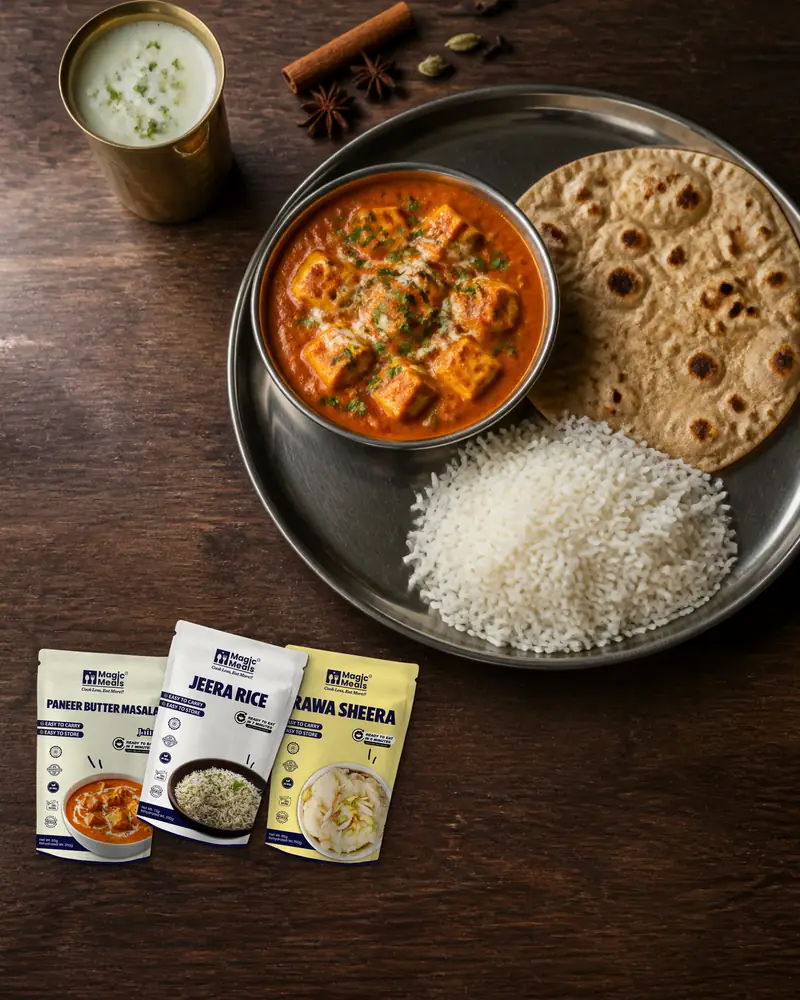
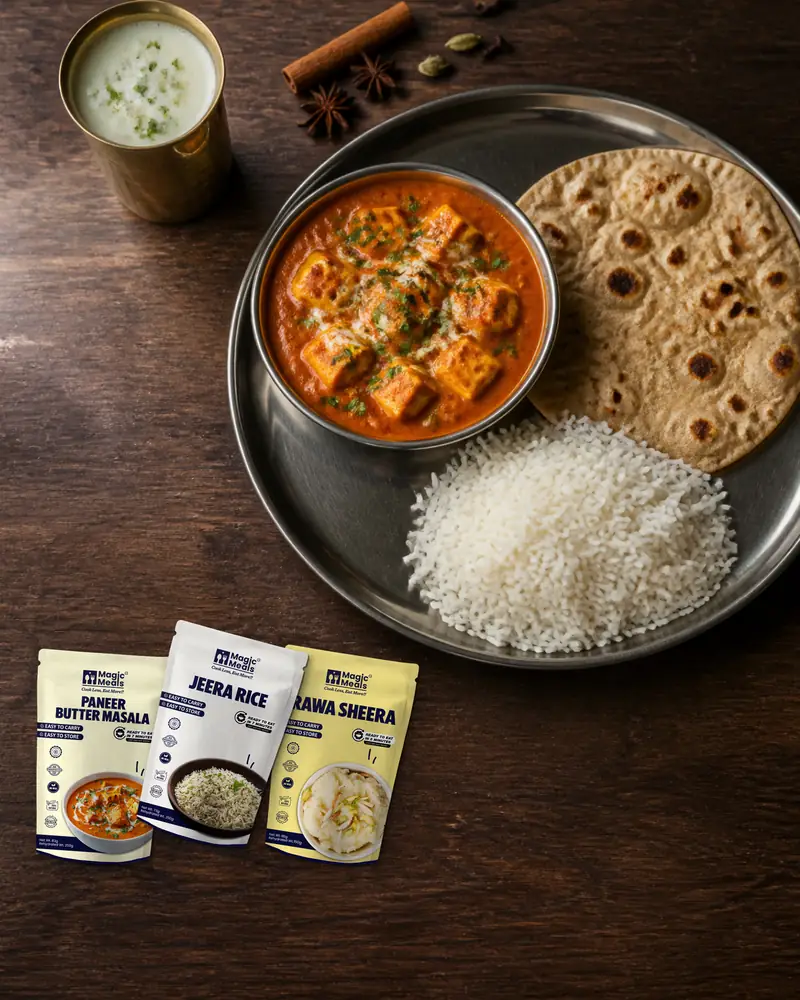
North Indian combo (Paneer Butter Masala + Jeera Rice + Rawa Sheera) uses the regular Paneer Butter Masala pouch, text, calories and ingredients

Changed region(s): [[0.0312, 0.682, 0.1875, 0.868]]

diff --git a/pdp/combos/combo-gallery.js b/pdp/combos/combo-gallery.js
@@ -1,2 +1,2 @@
 /* GENERATED by tools/compose-combo-gallery.py. The combos that have images in pdp/combos/<id>/, and their dishes (pouch-art ids). */
-window.COMBO_PDP = {"classic-dinner-combo-tomato-soup-dal-makhani-jeera-rice": {"dishes": ["tomato-soup", "dal-makhani", "jeera-rice"]}, "comfort-combo-rajma-masala-fried-rice-with-manchurian-gravy-gajar-halwa": {"dishes": ["rajma-masala", "fried-rice-manchurian", "gajar-halwa"]}, "comfort-combo-rajma-masala-jeera-rice-gajar-halwa": {"dishes": ["rajma-masala", "jeera-rice", "gajar-halwa"]}, "comfort-combo-rajma-masala-tawa-pulao-gajar-halwa": {"dishes": ["rajma-masala", "tawa-pulao", "gajar-halwa"]}, "comfort-combo-rajma-masala-veg-biryani-gajar-halwa": {"dishes": ["rajma-masala", "veg-biryani", "gajar-halwa"]}, "comfort-night-combo-dal-fry-jeera-rice": {"dishes": ["dal-fry", "jeera-rice"]}, "dinner-dessert-combo": {"dishes": ["dal-khichdi", "gajar-halwa"]}, "fiesta-bowl-combo": {"dishes": ["sweet-corn-soup", "mexican-rice"]}, "homestyle-combo-veg-makhanwala-jeera-rice-gajar-halwa": {"dishes": ["veg-makhanwala", "jeera-rice", "gajar-halwa"]}, "homestyle-combo-veg-makhanwala-tawa-pulao-gajar-halwa": {"dishes": ["veg-makhanwala", "tawa-pulao", "gajar-halwa"]}, "homestyle-combo-veg-makhanwala-veg-biryani-gajar-halwa": {"dishes": ["veg-makhanwala", "veg-biryani", "gajar-halwa"]}, "indo-chinese-feast-combo": {"dishes": ["hot-and-sour-soup", "fried-rice-manchurian"]}, "jain-biryani-royale-veg-biryani-aam-ras": {"dishes": ["jain-veg-biryani", "aam-ras"]}, "jain-biryani-royale-veg-biryani-rawa-sheera": {"dishes": ["jain-veg-biryani", "rawa-sheera"]}, "jain-classic-dinner-combo-dal-makhani-jeera-rice": {"dishes": ["jain-dal-makhani", "jeera-rice"]}, "jain-comfort-combo-rajma-masala-jeera-rice-rawa-sheera": {"dishes": ["jain-rajma-masala", "jeera-rice", "rawa-sheera"]}, "jain-homestyle-combo-veg-makhanwala-jeera-rice-dal-fry": {"dishes": ["jain-veg-makhanwala", "jeera-rice", "dal-fry"]}, "jain-indo-chinese-combo-schezwan-rice-rawa-sheera": {"dishes": ["jain-schezwan-rice", "rawa-sheera"]}, "jain-light-comfort-combo-dal-khichdi-aam-ras": {"dishes": ["jain-dal-khichdi", "aam-ras"]}, "jain-light-comfort-combo-dal-khichdi-rawa-sheera": {"dishes": ["jain-dal-khichdi", "rawa-sheera"]}, "jain-light-dinner-combo-dal-khichdi-moong-masala": {"dishes": ["jain-dal-khichdi", "moong-masala"]}, "jain-north-indian-combo-paneer-butter-masala-jeera-rice-rawa-sheera": {"dishes": ["jain-paneer-butter-masala", "jeera-rice", "rawa-sheera"]}, "jain-protein-veg-combo-paneer-bhurji-jeera-rice-aam-ras": {"dishes": ["jain-paneer-bhurji", "jeera-rice", "aam-ras"]}, "jain-punjabi-swaad-combo-pind-ke-chole-jeera-rice-dal-fry": {"dishes": ["jain-pind-ke-chhole", "jeera-rice", "dal-fry"]}, "jain-royal-fusion-combo-schezwan-rice-aam-ras": {"dishes": ["jain-schezwan-rice", "aam-ras"]}, "jain-street-style-combo-pav-bhaji-rawa-sheera": {"dishes": ["jain-pav-bhaji", "rawa-sheera"]}, "maharashtrian-nashta-combo": {"dishes": ["kanda-poha", "mumbai-misal"]}, "north-indian-combo-paneer-butter-masala-jeera-rice-rawa-sheera": {"dishes": ["jain-paneer-butter-masala", "jeera-rice", "rawa-sheera"]}, "north-indian-combo-paneer-butter-masala-tawa-pulao-rawa-sheera": {"dishes": ["paneer-butter-masala", "tawa-pulao", "rawa-sheera"]}, "north-indian-combo-paneer-butter-masala-veg-biryani-rawa-sheera": {"dishes": ["paneer-butter-masala", "veg-biryani", "rawa-sheera"]}, "protein-veg-combo-paneer-bhurji-jeera-rice-aam-ras": {"dishes": ["paneer-bhurji", "jeera-rice", "aam-ras"]}, "protein-veg-combo-paneer-bhurji-tawa-pulao-aam-ras": {"dishes": ["paneer-bhurji", "tawa-pulao", "aam-ras"]}, "protein-veg-combo-paneer-bhurji-veg-biryani-aam-ras": {"dishes": ["paneer-bhurji", "veg-biryani", "aam-ras"]}, "punjabi-swaad-combo-pind-ke-chole-jeera-rice-gajar-halwa": {"dishes": ["pind-ke-chhole", "jeera-rice", "gajar-halwa"]}, "punjabi-swaad-pind-ke-chole-tawa-pulao-gajar-halwa": {"dishes": ["pind-ke-chhole", "tawa-pulao", "gajar-halwa"]}, "punjabi-swaad-pind-ke-chole-veg-biryani-gajar-halwa": {"dishes": ["pind-ke-chhole", "veg-biryani", "gajar-halwa"]}, "royal-combo-tawa-pulao-aam-ras": {"dishes": ["tawa-pulao", "aam-ras"]}, "royal-combo-veg-biryani-rawa-sheera": {"dishes": ["veg-biryani", "rawa-sheera"]}, "south-indian-breakfast-combo": {"dishes": ["idli-sambar", "upma"]}, "street-style-combo-pav-bhaji-rawa-sheera": {"dishes": ["pav-bhaji", "rawa-sheera"]}, "street-style-combo-pav-bhaji-tawa-pulao": {"dishes": ["pav-bhaji", "tawa-pulao"]}};
+window.COMBO_PDP = {"classic-dinner-combo-tomato-soup-dal-makhani-jeera-rice": {"dishes": ["tomato-soup", "dal-makhani", "jeera-rice"]}, "comfort-combo-rajma-masala-fried-rice-with-manchurian-gravy-gajar-halwa": {"dishes": ["rajma-masala", "fried-rice-manchurian", "gajar-halwa"]}, "comfort-combo-rajma-masala-jeera-rice-gajar-halwa": {"dishes": ["rajma-masala", "jeera-rice", "gajar-halwa"]}, "comfort-combo-rajma-masala-tawa-pulao-gajar-halwa": {"dishes": ["rajma-masala", "tawa-pulao", "gajar-halwa"]}, "comfort-combo-rajma-masala-veg-biryani-gajar-halwa": {"dishes": ["rajma-masala", "veg-biryani", "gajar-halwa"]}, "comfort-night-combo-dal-fry-jeera-rice": {"dishes": ["dal-fry", "jeera-rice"]}, "dinner-dessert-combo": {"dishes": ["dal-khichdi", "gajar-halwa"]}, "fiesta-bowl-combo": {"dishes": ["sweet-corn-soup", "mexican-rice"]}, "homestyle-combo-veg-makhanwala-jeera-rice-gajar-halwa": {"dishes": ["veg-makhanwala", "jeera-rice", "gajar-halwa"]}, "homestyle-combo-veg-makhanwala-tawa-pulao-gajar-halwa": {"dishes": ["veg-makhanwala", "tawa-pulao", "gajar-halwa"]}, "homestyle-combo-veg-makhanwala-veg-biryani-gajar-halwa": {"dishes": ["veg-makhanwala", "veg-biryani", "gajar-halwa"]}, "indo-chinese-feast-combo": {"dishes": ["hot-and-sour-soup", "fried-rice-manchurian"]}, "jain-biryani-royale-veg-biryani-aam-ras": {"dishes": ["jain-veg-biryani", "aam-ras"]}, "jain-biryani-royale-veg-biryani-rawa-sheera": {"dishes": ["jain-veg-biryani", "rawa-sheera"]}, "jain-classic-dinner-combo-dal-makhani-jeera-rice": {"dishes": ["jain-dal-makhani", "jeera-rice"]}, "jain-comfort-combo-rajma-masala-jeera-rice-rawa-sheera": {"dishes": ["jain-rajma-masala", "jeera-rice", "rawa-sheera"]}, "jain-homestyle-combo-veg-makhanwala-jeera-rice-dal-fry": {"dishes": ["jain-veg-makhanwala", "jeera-rice", "dal-fry"]}, "jain-indo-chinese-combo-schezwan-rice-rawa-sheera": {"dishes": ["jain-schezwan-rice", "rawa-sheera"]}, "jain-light-comfort-combo-dal-khichdi-aam-ras": {"dishes": ["jain-dal-khichdi", "aam-ras"]}, "jain-light-comfort-combo-dal-khichdi-rawa-sheera": {"dishes": ["jain-dal-khichdi", "rawa-sheera"]}, "jain-light-dinner-combo-dal-khichdi-moong-masala": {"dishes": ["jain-dal-khichdi", "moong-masala"]}, "jain-north-indian-combo-paneer-butter-masala-jeera-rice-rawa-sheera": {"dishes": ["jain-paneer-butter-masala", "jeera-rice", "rawa-sheera"]}, "jain-protein-veg-combo-paneer-bhurji-jeera-rice-aam-ras": {"dishes": ["jain-paneer-bhurji", "jeera-rice", "aam-ras"]}, "jain-punjabi-swaad-combo-pind-ke-chole-jeera-rice-dal-fry": {"dishes": ["jain-pind-ke-chhole", "jeera-rice", "dal-fry"]}, "jain-royal-fusion-combo-schezwan-rice-aam-ras": {"dishes": ["jain-schezwan-rice", "aam-ras"]}, "jain-street-style-combo-pav-bhaji-rawa-sheera": {"dishes": ["jain-pav-bhaji", "rawa-sheera"]}, "maharashtrian-nashta-combo": {"dishes": ["kanda-poha", "mumbai-misal"]}, "north-indian-combo-paneer-butter-masala-jeera-rice-rawa-sheera": {"dishes": ["paneer-butter-masala", "jeera-rice", "rawa-sheera"]}, "north-indian-combo-paneer-butter-masala-tawa-pulao-rawa-sheera": {"dishes": ["paneer-butter-masala", "tawa-pulao", "rawa-sheera"]}, "north-indian-combo-paneer-butter-masala-veg-biryani-rawa-sheera": {"dishes": ["paneer-butter-masala", "veg-biryani", "rawa-sheera"]}, "protein-veg-combo-paneer-bhurji-jeera-rice-aam-ras": {"dishes": ["paneer-bhurji", "jeera-rice", "aam-ras"]}, "protein-veg-combo-paneer-bhurji-tawa-pulao-aam-ras": {"dishes": ["paneer-bhurji", "tawa-pulao", "aam-ras"]}, "protein-veg-combo-paneer-bhurji-veg-biryani-aam-ras": {"dishes": ["paneer-bhurji", "veg-biryani", "aam-ras"]}, "punjabi-swaad-combo-pind-ke-chole-jeera-rice-gajar-halwa": {"dishes": ["pind-ke-chhole", "jeera-rice", "gajar-halwa"]}, "punjabi-swaad-pind-ke-chole-tawa-pulao-gajar-halwa": {"dishes": ["pind-ke-chhole", "tawa-pulao", "gajar-halwa"]}, "punjabi-swaad-pind-ke-chole-veg-biryani-gajar-halwa": {"dishes": ["pind-ke-chhole", "veg-biryani", "gajar-halwa"]}, "royal-combo-tawa-pulao-aam-ras": {"dishes": ["tawa-pulao", "aam-ras"]}, "royal-combo-veg-biryani-rawa-sheera": {"dishes": ["veg-biryani", "rawa-sheera"]}, "south-indian-breakfast-combo": {"dishes": ["idli-sambar", "upma"]}, "street-style-combo-pav-bhaji-rawa-sheera": {"dishes": ["pav-bhaji", "rawa-sheera"]}, "street-style-combo-pav-bhaji-tawa-pulao": {"dishes": ["pav-bhaji", "tawa-pulao"]}};

diff --git a/product-descriptions.js b/product-descriptions.js
@@ -882,7 +882,7 @@ window.PRODUCT_DESCRIPTIONS = {
  },
  "north-indian-combo-paneer-butter-masala-jeera-rice-rawa-sheera": {
   "slug": "magic-meals-north-indian-combo-paneer-butter-masala-jeera-rice-rawa-sheera",
-  "intro": "Enjoy a complete North Indian feast anytime, anywhere with the Magic Meals North Indian Combo featuring Jain Paneer Butter Masala, Jeera Rice, and Rawa Sheera. This wholesome ready-to-eat combo combines a rich curry, aromatic rice, and a traditional dessert for a satisfying meal experience in minutes.",
+  "intro": "Enjoy a complete North Indian feast anytime, anywhere with the Magic Meals North Indian Combo featuring Paneer Butter Masala, Jeera Rice, and Rawa Sheera. This wholesome ready-to-eat combo combines a rich curry, aromatic rice, and a traditional dessert for a satisfying meal experience in minutes.",
   "specs": [
    [
     "Net Weight",
@@ -901,7 +901,7 @@ window.PRODUCT_DESCRIPTIONS = {
     "12 Months"
    ]
   ],
-  "html": "<p>Experience the comforting flavors of North India with the Magic Meals North Indian Combo, a complete ready-to-eat meal that brings together a delicious main course, fragrant rice, and a classic Indian dessert.</p><p>This combo includes Jain Paneer Butter Masala, a rich and creamy tomato-based curry loaded with paneer cubes, Jeera Rice, perfectly seasoned with aromatic cumin, and Rawa Sheera, a traditional sweet delicacy made from semolina and flavored with cardamom and dry fruits.</p><p>Whether you’re traveling, camping, trekking, working late, staying in a hostel, or simply need a quick meal at home, this combo delivers restaurant-style taste with unmatched convenience. Simply add hot water and enjoy a complete meal within minutes.</p><p>Its lightweight packaging and long shelf life make it an excellent choice for travel food, emergency food storage, office meals, and instant hunger cravings.</p><h3>Why Choose Magic Meals North Indian Combo?</h3><ul><li>Complete North Indian meal with dessert</li><li>Includes Paneer Butter Masala, Jeera Rice &amp; Rawa Sheera</li><li>Authentic Jain recipe</li><li>Rich, flavorful, and satisfying meal</li><li>Ready in just 7 minutes</li><li>Just add hot water</li><li>No preservatives</li><li>No added MSG</li><li>100% natural ingredients</li><li>Lightweight and travel-friendly packaging</li><li>Long shelf life</li><li>Ideal for travel, office, hostel, trekking, and home use</li></ul><h3>Preparation Instructions</h3><p><strong>Paneer Butter Masala</strong></p><ol><li>Empty contents into a bowl.</li><li>Remove oxygen absorber.</li><li>Add 167 ml hot water.</li><li>Stir thoroughly and cover for 7 minutes.</li><li>Mix well and serve hot.</li></ol><p><strong>Jeera Rice</strong></p><ol><li>Empty contents into a bowl.</li><li>Remove oxygen absorber.</li><li>Add 177ml hot water.</li><li>Stir thoroughly and cover for 7 minutes.</li><li>Mix well and serve hot.</li></ol><p><strong>Rawa Sheera</strong></p><ol><li>Empty contents into a bowl.</li><li>Remove oxygen absorber.</li><li>Add 65ml hot water.</li><li>Stir thoroughly and cover for 5 minutes.</li><li>Mix well and serve hot.</li></ol>"
+  "html": "<p>Experience the comforting flavors of North India with the Magic Meals North Indian Combo, a complete ready-to-eat meal that brings together a delicious main course, fragrant rice, and a classic Indian dessert.</p><p>This combo includes Paneer Butter Masala, a rich and creamy tomato-based curry loaded with paneer cubes, Jeera Rice, perfectly seasoned with aromatic cumin, and Rawa Sheera, a traditional sweet delicacy made from semolina and flavored with cardamom and dry fruits.</p><p>Whether you’re traveling, camping, trekking, working late, staying in a hostel, or simply need a quick meal at home, this combo delivers restaurant-style taste with unmatched convenience. Simply add hot water and enjoy a complete meal within minutes.</p><p>Its lightweight packaging and long shelf life make it an excellent choice for travel food, emergency food storage, office meals, and instant hunger cravings.</p><h3>Why Choose Magic Meals North Indian Combo?</h3><ul><li>Complete North Indian meal with dessert</li><li>Includes Paneer Butter Masala, Jeera Rice &amp; Rawa Sheera</li><li>Rich, flavorful, and satisfying meal</li><li>Ready in just 7 minutes</li><li>Just add hot water</li><li>No preservatives</li><li>No added MSG</li><li>100% natural ingredients</li><li>Lightweight and travel-friendly packaging</li><li>Long shelf life</li><li>Ideal for travel, office, hostel, trekking, and home use</li></ul><h3>Preparation Instructions</h3><p><strong>Paneer Butter Masala</strong></p><ol><li>Empty contents into a bowl.</li><li>Remove oxygen absorber.</li><li>Add 167 ml hot water.</li><li>Stir thoroughly and cover for 7 minutes.</li><li>Mix well and serve hot.</li></ol><p><strong>Jeera Rice</strong></p><ol><li>Empty contents into a bowl.</li><li>Remove oxygen absorber.</li><li>Add 177ml hot water.</li><li>Stir thoroughly and cover for 7 minutes.</li><li>Mix well and serve hot.</li></ol><p><strong>Rawa Sheera</strong></p><ol><li>Empty contents into a bowl.</li><li>Remove oxygen absorber.</li><li>Add 65ml hot water.</li><li>Stir thoroughly and cover for 5 minutes.</li><li>Mix well and serve hot.</li></ol>"
  },
  "north-indian-combo-paneer-butter-masala-tawa-pulao-rawa-sheera": {
   "slug": "paneer-butter-masala-tawa-pulao-rawa-sheera",

diff --git a/main.js b/main.js
@@ -890,9 +890,9 @@
         rating: 0,
         reviews: 0,
         weight: '241g net (makes 650g)',
-        calories: '771 kcal',
-        protein: '12.9g',
-        desc: 'Enjoy a complete North Indian feast anytime, anywhere with the Magic Meals North Indian Combo featuring Jain Paneer Butter Masala, Jeera Rice, and Rawa Sheera. This wholesome ready-to-eat combo combines a rich curry, aromatic rice, and a traditional dessert for a satisfying meal experience in minutes.'
+        calories: '1058 kcal',
+        protein: '22.9g',
+        desc: 'Enjoy a complete North Indian feast anytime, anywhere with the Magic Meals North Indian Combo featuring Paneer Butter Masala, Jeera Rice, and Rawa Sheera. This wholesome ready-to-eat combo combines a rich curry, aromatic rice, and a traditional dessert for a satisfying meal experience in minutes.'
       },
       {
         id: 'north-indian-combo-paneer-butter-masala-tawa-pulao-rawa-sheera',

diff --git a/tools/compose-combo-gallery.py b/tools/compose-combo-gallery.py
@@ -51,7 +51,7 @@ DISH = {'paneer butter masala': 'paneer-butter-masala', 'jeera rice': 'jeera-ric
 # Jain combos use the Jain pouch (pouch-art/jain-<id>-front-processed.png, from the client's Jain mockups) for these dishes; Jeera Rice, Rawa Sheera and
 # Aam Ras are the same pack in both versions, Dal Fry and Moong Masala only exist as Jain.
 JAIN_POUCH = {'pav-bhaji', 'paneer-bhurji', 'veg-biryani', 'schezwan-rice', 'dal-makhani', 'upma', 'paneer-butter-masala', 'kanda-poha', 'pind-ke-chhole', 'veg-makhanwala', 'dal-khichdi', 'rajma-masala'}
-JAIN_COMBOS = {'north-indian-combo-paneer-butter-masala-jeera-rice-rawa-sheera'}      # the old site only sells this one as Jain
+JAIN_COMBOS = set()      # (the north-indian PBM + Jeera + Rawa combo was listed here by mistake: it is the regular Paneer Butter Masala)
 
 
 def jain(d):
